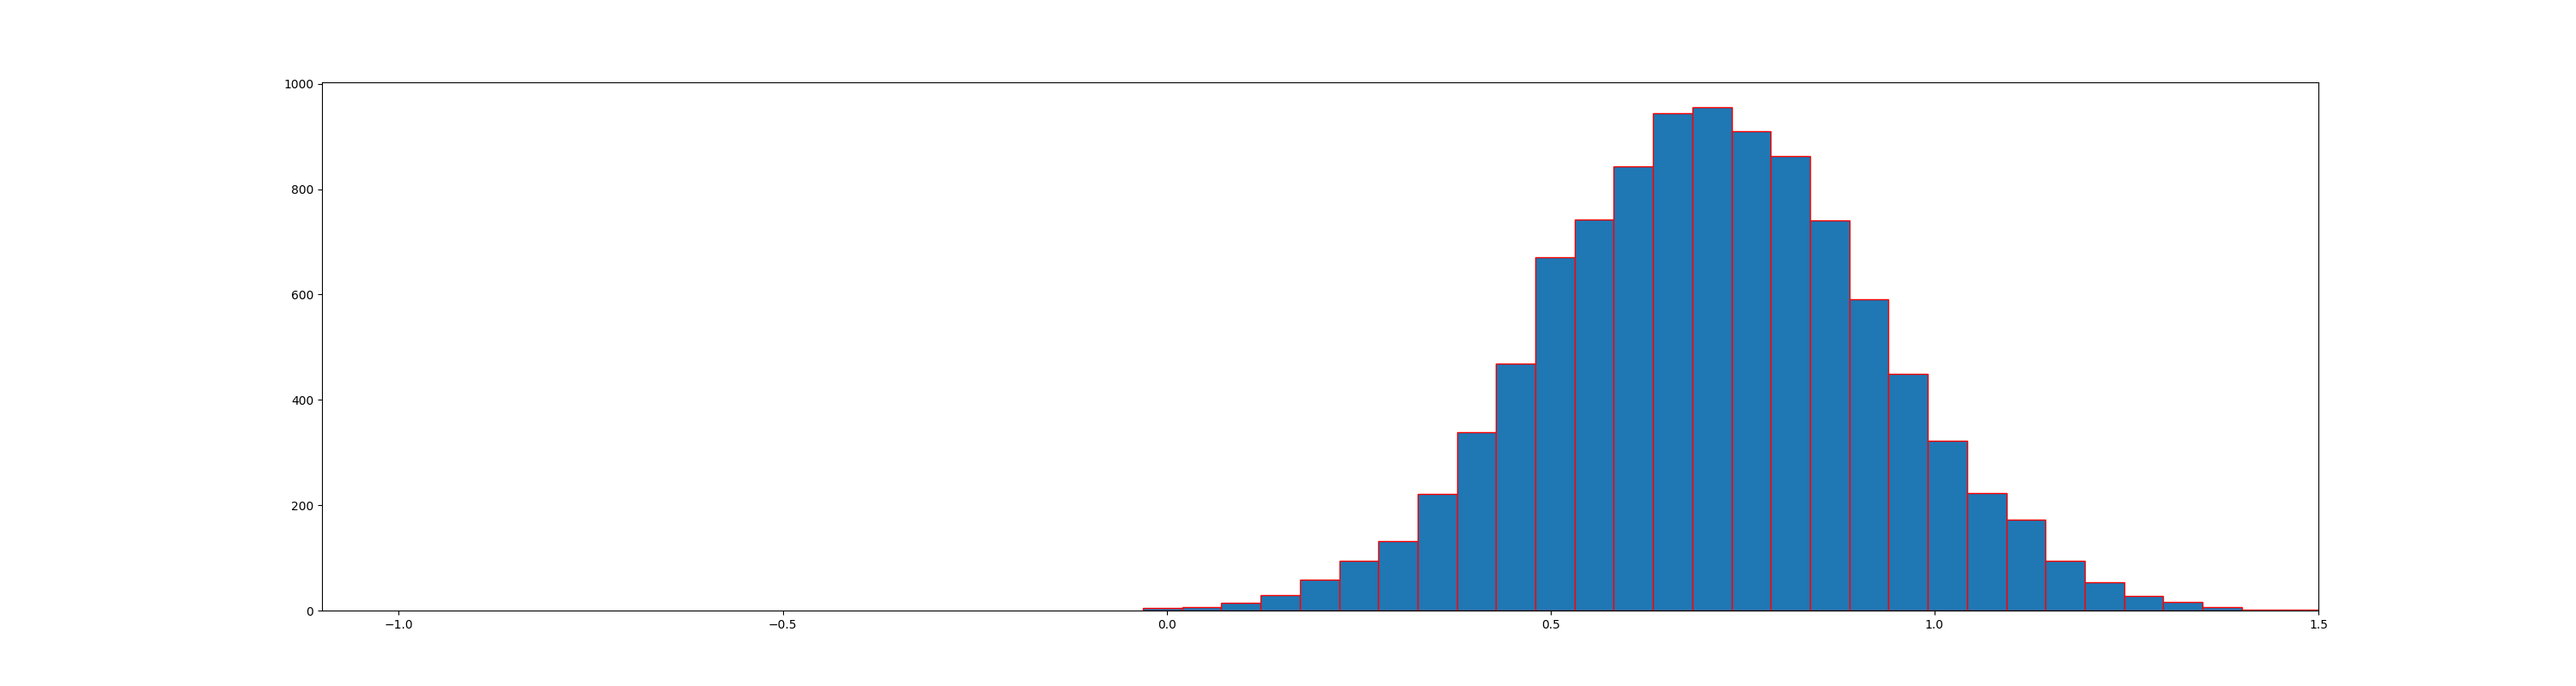
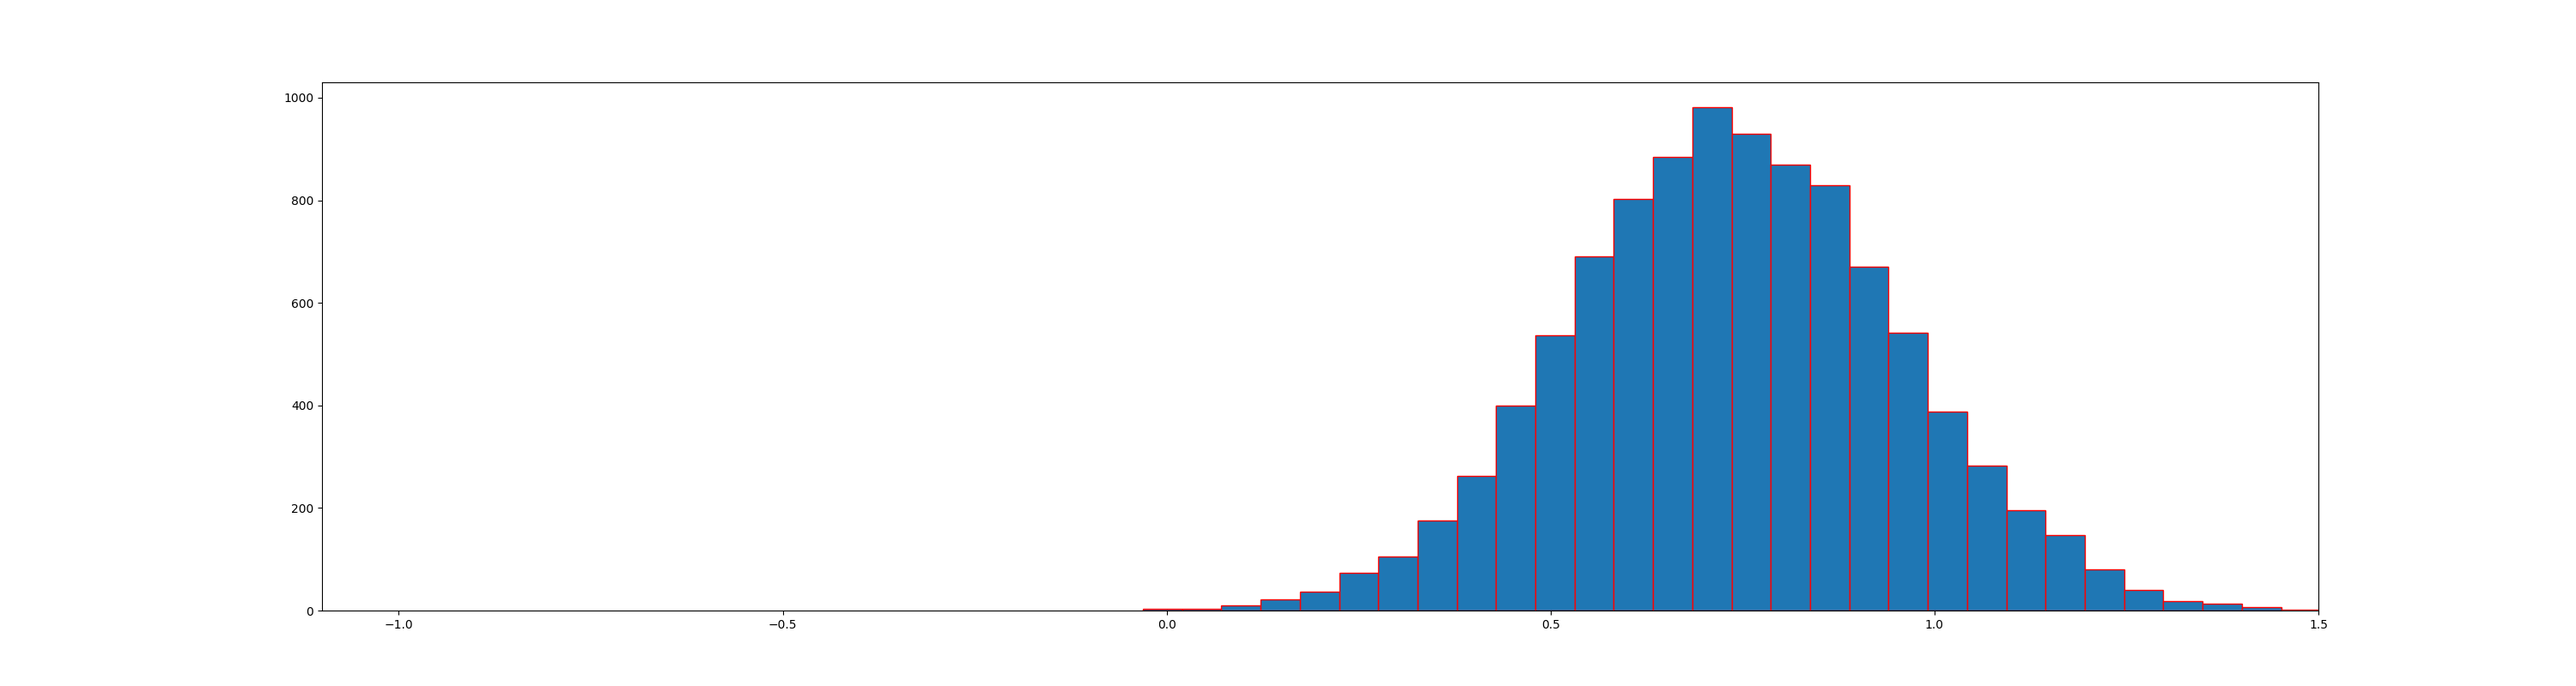
fixed histograms!

diff --git a/simulation.c b/simulation.c
@@ -136,11 +136,16 @@ int *histogram(double array[], int array_len, int n_bins, double *bin_bounds) {
     int current_bin = 1;
 
     for (int i = 0; i < array_len; i++) {
-        if (array[i] <= current_bin * bin_size)
+        if (array[i] <= min + current_bin * bin_size)
             counts[current_bin-1]++;
         else {
             current_bin++;
-            i--;
+            if (current_bin > n_bins) {
+                // if we ran out of bins, put the remaining max values in the last one
+                counts[n_bins - 1]++;
+            } else {
+                i--;
+            }
         }
     }
 
